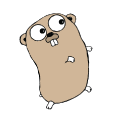
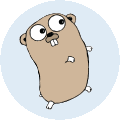
Update gallery image and background

diff --git a/README.md b/README.md
@@ -77,7 +77,7 @@ You can now hit breakpoints and step through the extension.
 
 If you make edits in the extension `.ts` files, just reload (`cmd-r`) the `[Extension Development Host]` instance of Code to load in the new extension code.  The debugging instance will automatically reattach.
 
-To debug the debugger, see [the debugAdapter README](src/debugAdapter/README.md).
+To debug the debugger, see [the debugAdapter readme](src/debugAdapter/Readme.md).
 
 ## Tools
 
